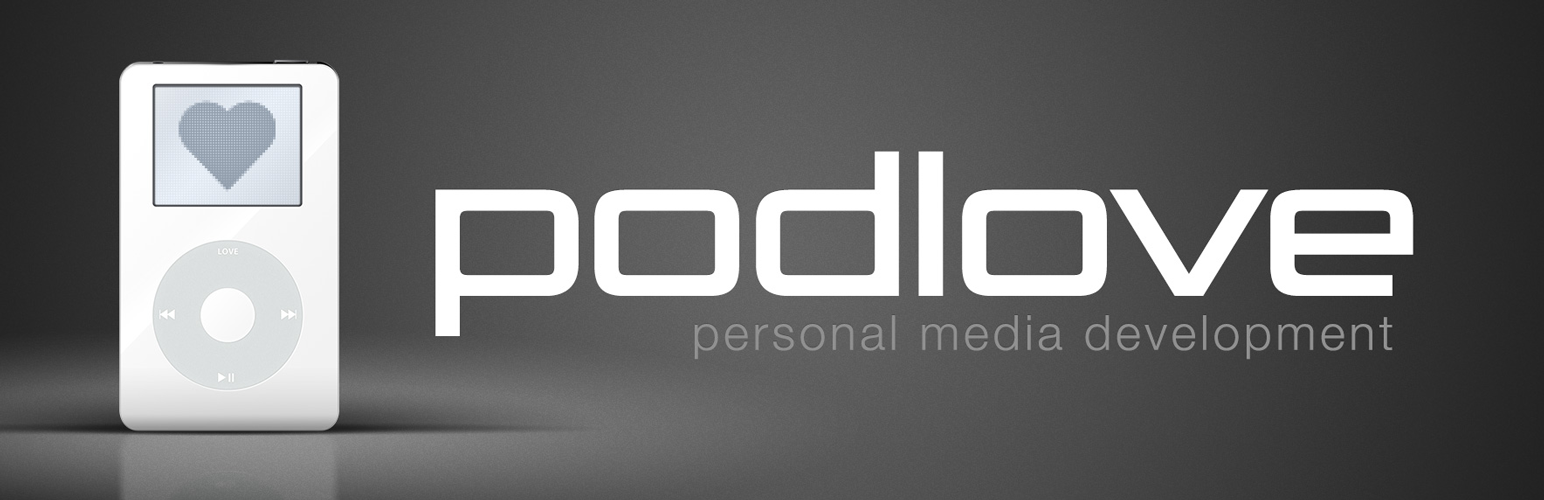
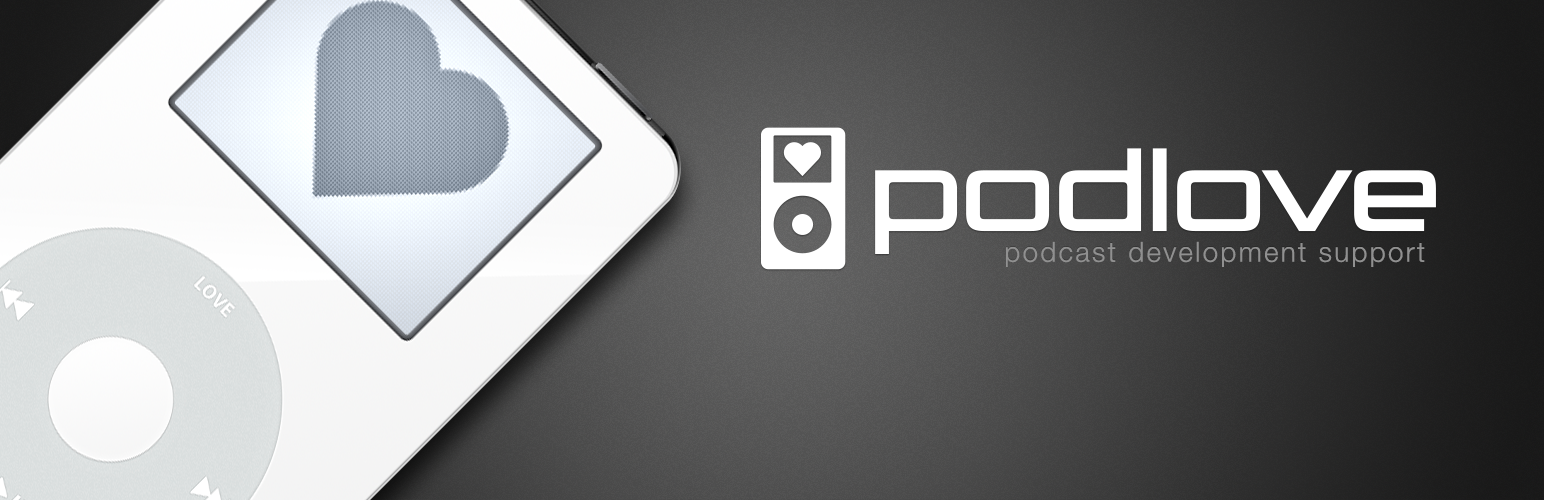
more info in settings.php, images updated

diff --git a/podlove-web-player/settings.php b/podlove-web-player/settings.php
@@ -195,9 +195,13 @@ function podlovewebplayer_enclosure_bottom() {
 function podlovewebplayer_info() {
 	$scriptname = explode('/wp-admin', $_SERVER["SCRIPT_FILENAME"]);
 	$dirname    = explode('/wp-content', dirname(__FILE__));
-	print "<p>This is <strong>Version 2.0.5</strong> of the <strong>Podlove Web Player</strong>.<br>
-	The <strong>Including file</strong> is: <code>wp-admin".$scriptname[1]."</code><br>
-	The <strong>PWP-directory</strong> is: <code>wp-content".$dirname[1]."</code></p>";
+	print '<p>This is <strong>Version 2.0.5</strong> of the <strong>Podlove Web Player</strong>.<br>
+	The <strong>Including file</strong> is: <code>wp-admin'.$scriptname[1].'</code><br>
+	The <strong>PWP-directory</strong> is: <code>wp-content'.$dirname[1].'</code></p>
+	<p>Want to contribute? Found a bug? Need some help? <br/>you can found our github repo/page at
+	<a href="https://github.com/podlove/podlove-web-player">github.com/podlove/podlove-web-player</a></p>
+	<p>If you found a bug, please tell us your WP- and PWP- (and PPP- if you use PPP) Version. <br/>Also your 
+	Browser version, your PHP version and the URL of your Podcast can help us, find the bug.</p>';
 }
 
 ?>
